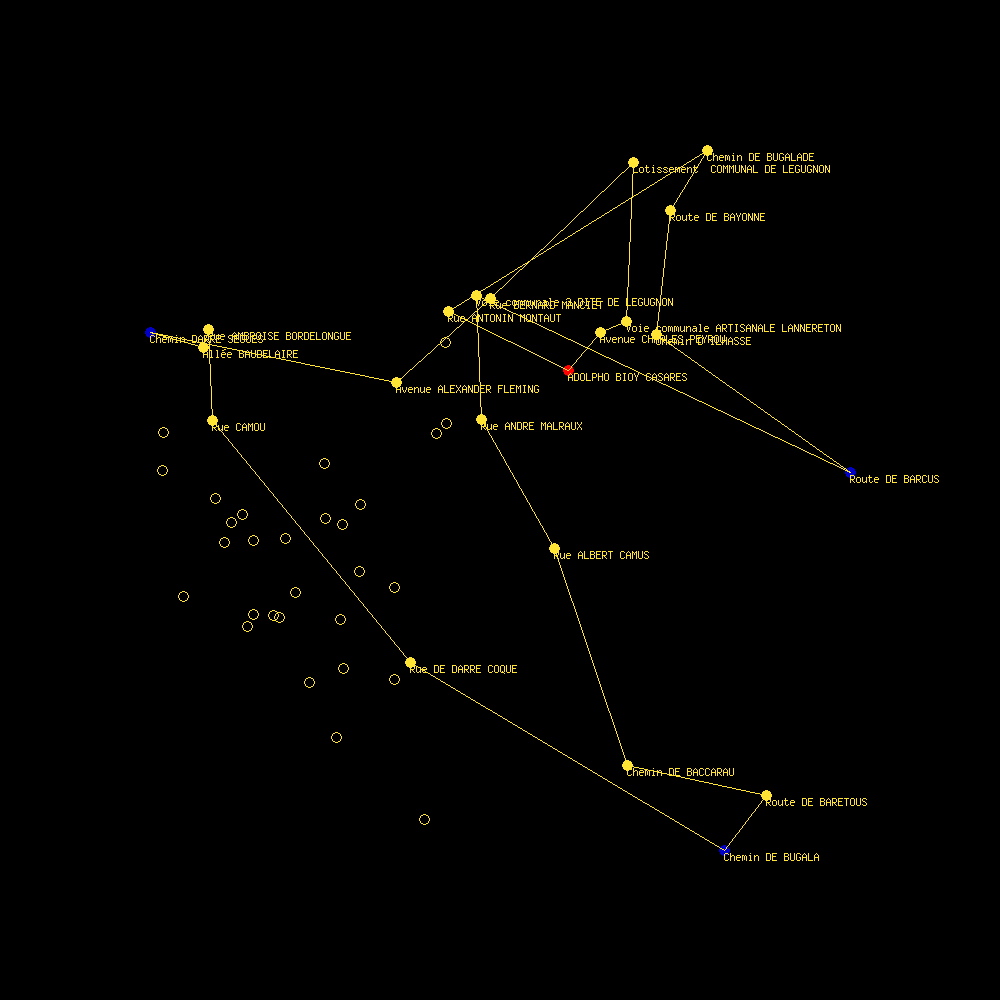
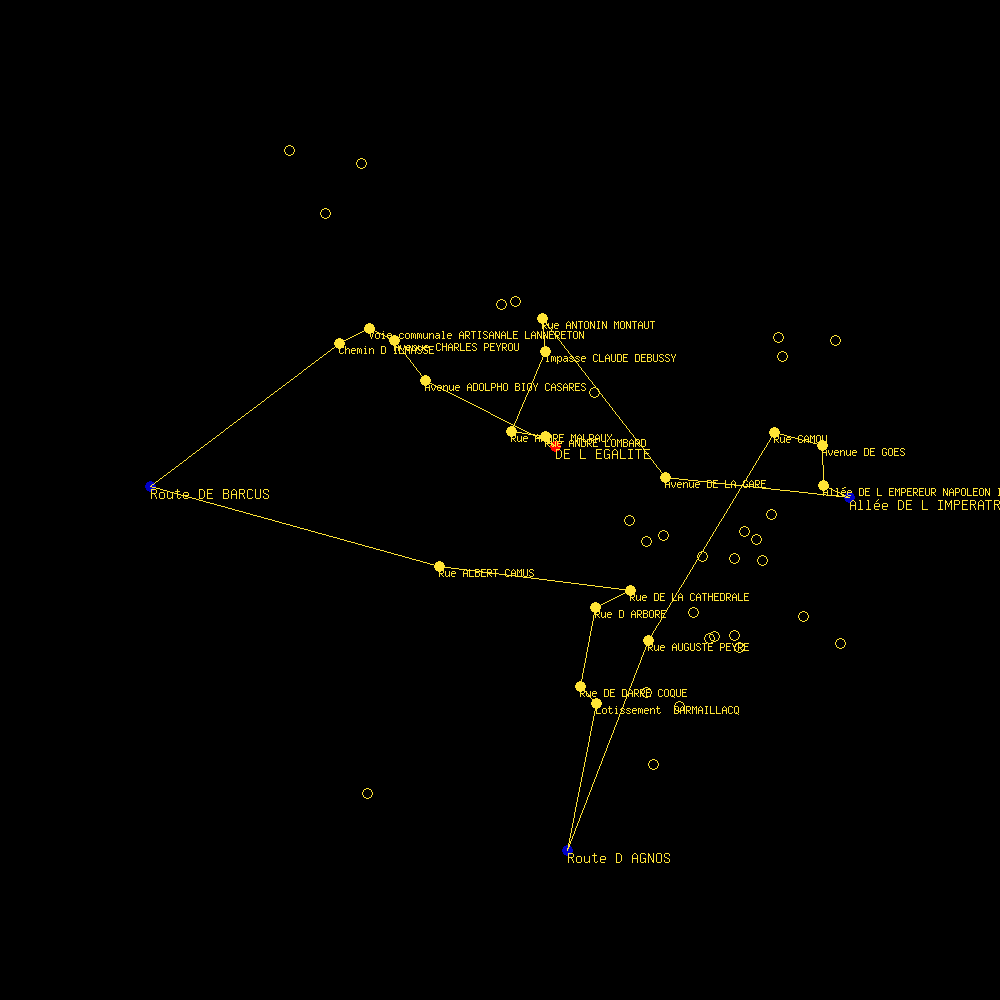
modification de nombreux affichages (css + affichage de la carte) et reglage d'un probleme sur la longitude

diff --git a/monostreet/cssGeneral.css b/monostreet/cssGeneral.css
@@ -44,3 +44,46 @@ button {
 	background-color: yellow;
 	color: black;
   }
+
+  /**Input**/
+input {
+	width: 10em;
+	height: 35px;
+	margin : 10px;
+	background-color: rgb(193, 192, 192);
+	color: white;
+	font-weight: bold;
+	border: none;
+	border-radius : 10px;
+	text-align: center;
+	cursor: pointer;
+	-webkit-transition: all 0.3s ease-out 0s;
+  
+  }
+  
+  /**Input selectionné**/
+  input:hover {
+	background-color: yellow;
+	color: black;
+  }
+
+  #rue_select{
+	width: 13em;
+	height: 40px;
+	margin : 10px;
+	background-color: rgb(122, 122, 122);
+	color: white;
+	font-weight: bold;
+	border: none;
+	border-radius : 10px;
+	text-align: center;
+	cursor: pointer;
+	-webkit-transition: all 0.3s ease-out 0s;
+  
+  }
+  
+  /**Input selectionné**/
+  #rue_select:hover {
+	background-color: yellow;
+	color: black;
+  }

diff --git a/monostreet/rechercheDeRue/main.php b/monostreet/rechercheDeRue/main.php
@@ -131,7 +131,7 @@ function ruesPlusProches50($listeDeRues, $laRue){
         // Pour toutes les rues de la liste
         foreach ($listeDeRues as $rue) {
             // si la rue fait parti du diametre autour de $laRue
-            if ($laRue->getCoordonnees()->distance($rue->getCoordonnees())<$diametre){
+            if ($laRue->getCoordonnees()->distance($rue->getCoordonnees())<$diametre && $rue != $laRue){
                 $listeDes50Rues[] = $rue;
             }
         }
@@ -163,6 +163,8 @@ function ruesPlusProches50($listeDeRues, $laRue){
             break;
         }
     }
+    $listeDes50Rues[] = $laRue;
+
     return $listeDes50Rues;
 }
 
@@ -191,7 +193,7 @@ function rechercheCoordonnees($rue,$listeDesRuesPourCoordonnees){
  * 
  * */
 function convertirLongPix($x, $longMax, $longMin){
-    return 850 - (((floatval($x)-$longMin)*700)/abs($longMax-$longMin));
+    return 150 + (((floatval($x)-$longMin)*700)/abs($longMax-$longMin));
 }
 
 /**
@@ -257,7 +259,9 @@ function trouverParcours($laRue){
     $longMin = min($listeDesLong);
 
     ImageFilledEllipse ($img, convertirLongPix($rue->getCoordonnees()->getLongitude(), $longMax, $longMin), convertirLatPix($rue->getCoordonnees()->getLatitude(), $latMax, $latMin), 10, 10, $couleurRouge);
-    imagestring($img, 2, convertirLongPix($rue->getCoordonnees()->getLongitude(), $longMax, $longMin), convertirLatPix($rue->getCoordonnees()->getLatitude(), $latMax, $latMin), $rue->getNomRue(), $couleurJaune);
+    imagestring($img, 4, convertirLongPix($rue->getCoordonnees()->getLongitude(), $longMax, $longMin), convertirLatPix($rue->getCoordonnees()->getLatitude(), $latMax, $latMin), $rue->getNomRue(), $couleurJaune);
+
+    unset($listeFinalePoint[array_search($rue, $listeFinalePoint)]);
 
     // affichage des rues
     foreach ($listeFinalePoint as $element) {
@@ -287,7 +291,7 @@ function trouverParcours($laRue){
     $x = convertirLongPix($oppose->getCoordonnees()->getLongitude(), $longMax, $longMin);
     $y = convertirLatPix($oppose->getCoordonnees()->getLatitude(), $latMax, $latMin);
     ImageFilledEllipse ($img, $x, $y, 10, 10, $couleurBleue);
-    imagestring($img, 2, $x, $y, $oppose->getNomRue(), $couleurJaune);
+    imagestring($img, 4, $x, $y, $oppose->getNomRue(), $couleurJaune);
 
     //definir Est ou Ouest
     $compteur = 0;
@@ -320,12 +324,12 @@ function trouverParcours($laRue){
     $x = convertirLongPix($est->getCoordonnees()->getLongitude(), $longMax, $longMin);
     $y = convertirLatPix($est->getCoordonnees()->getLatitude(), $latMax, $latMin);
     ImageFilledEllipse ($img, $x, $y, 10, 10, $couleurBleue);
-    imagestring($img, 2, $x, $y, $est->getNomRue(), $couleurJaune);
+    imagestring($img, 4, $x, $y, $est->getNomRue(), $couleurJaune);
 
     $x = convertirLongPix($ouest->getCoordonnees()->getLongitude(), $longMax, $longMin);
     $y = convertirLatPix($ouest->getCoordonnees()->getLatitude(), $latMax, $latMin);
     ImageFilledEllipse ($img, $x, $y, 10, 10, $couleurBleue);
-    imagestring($img, 2, $x, $y, $ouest->getNomRue(), $couleurJaune);
+    imagestring($img, 4, $x, $y, $ouest->getNomRue(), $couleurJaune);
     
     // Trouver les 18 rues
     //Initialisation
@@ -623,6 +627,23 @@ function trouverParcours($laRue){
     echo "<div id='parcoursRue'>";
     for ($i=0; $i < count($listeFin); $i++) { 
         if ($listeFin[$i] != null) {
+            switch ($i) {
+                case 0:
+                    echo "DEPART (Rouge)</br>";
+                    break;
+                case 6:
+                    echo "</br>";
+                    echo "POINT EST (Bleu de droite)</br>";
+                    break;
+                case 11:
+                    echo "</br>";
+                    echo "OPPOSE (Bleu en haut ou en bas)</br>";
+                    break;
+                case 17:
+                    echo "</br>";
+                    echo "OUEST (Bleu a gauche)</br>";
+                    break;
+            }
             $listeFin[$i]->afficheNom();
             echo "</br>";
         }

diff --git a/monostreet/connexion.php b/monostreet/connexion.php
@@ -68,13 +68,6 @@ if(isset($_POST['connexion'])){
                         <div class="form-group">
                             <input type="password" class="form-control" name="mdp" id="password" placeholder="Mot de passe">
                         </div>
-                        <div class="form-bouton">
-                            <div class="souvenir">
-                                <input type="checkbox" name="souvenir" id="souvenir">
-                                <label for="souvenir">Se souvenir de moi</label>
-                            </div>
-                        </div>
-                        
                         
                         <button type="submit" name="connexion">Connexion</button>
 

diff --git a/monostreet/jeu.php b/monostreet/jeu.php
@@ -8,12 +8,12 @@ session_start();
     <style>
         body{
             display: grid;
-            padding-left : 6em;
-            grid-template-columns: 30% 70%;
+            padding-left : 5em;
+            grid-template-columns: 26% 74%;
         }
 
         div{
-            padding-top : 18em;
+            padding-top : 12em;
         }
     </style>
     <body>

diff --git a/monostreet/profil.php b/monostreet/profil.php
@@ -21,6 +21,10 @@ session_start();
 <form action="deconnexion.php" method="post">
     <button type="submit" id="envoyer" name="envoyer">Deconnexion</button>
 <form>
+</br>
+<form action="monostreet.php" method="post">
+    <button type="submit" id="accueil" name="accueil">Retour a l'accueil</button>
+<form>
 
 </header>
 </html>

diff --git a/monostreet/createGame.php b/monostreet/createGame.php
@@ -26,7 +26,7 @@ foreach ($lesRues as $nomDeRues) {
 
 <!DOCTYPE html>
 <html>
-<link rel="stylesheet" type="text/css" href="connexion.css"> 
+<link rel="stylesheet" type="text/css" href="cssGeneral.css"> 
     <header>
         <h1>Creation de la Partie</h1>
         <form method="POST" action="" text-align="center">
